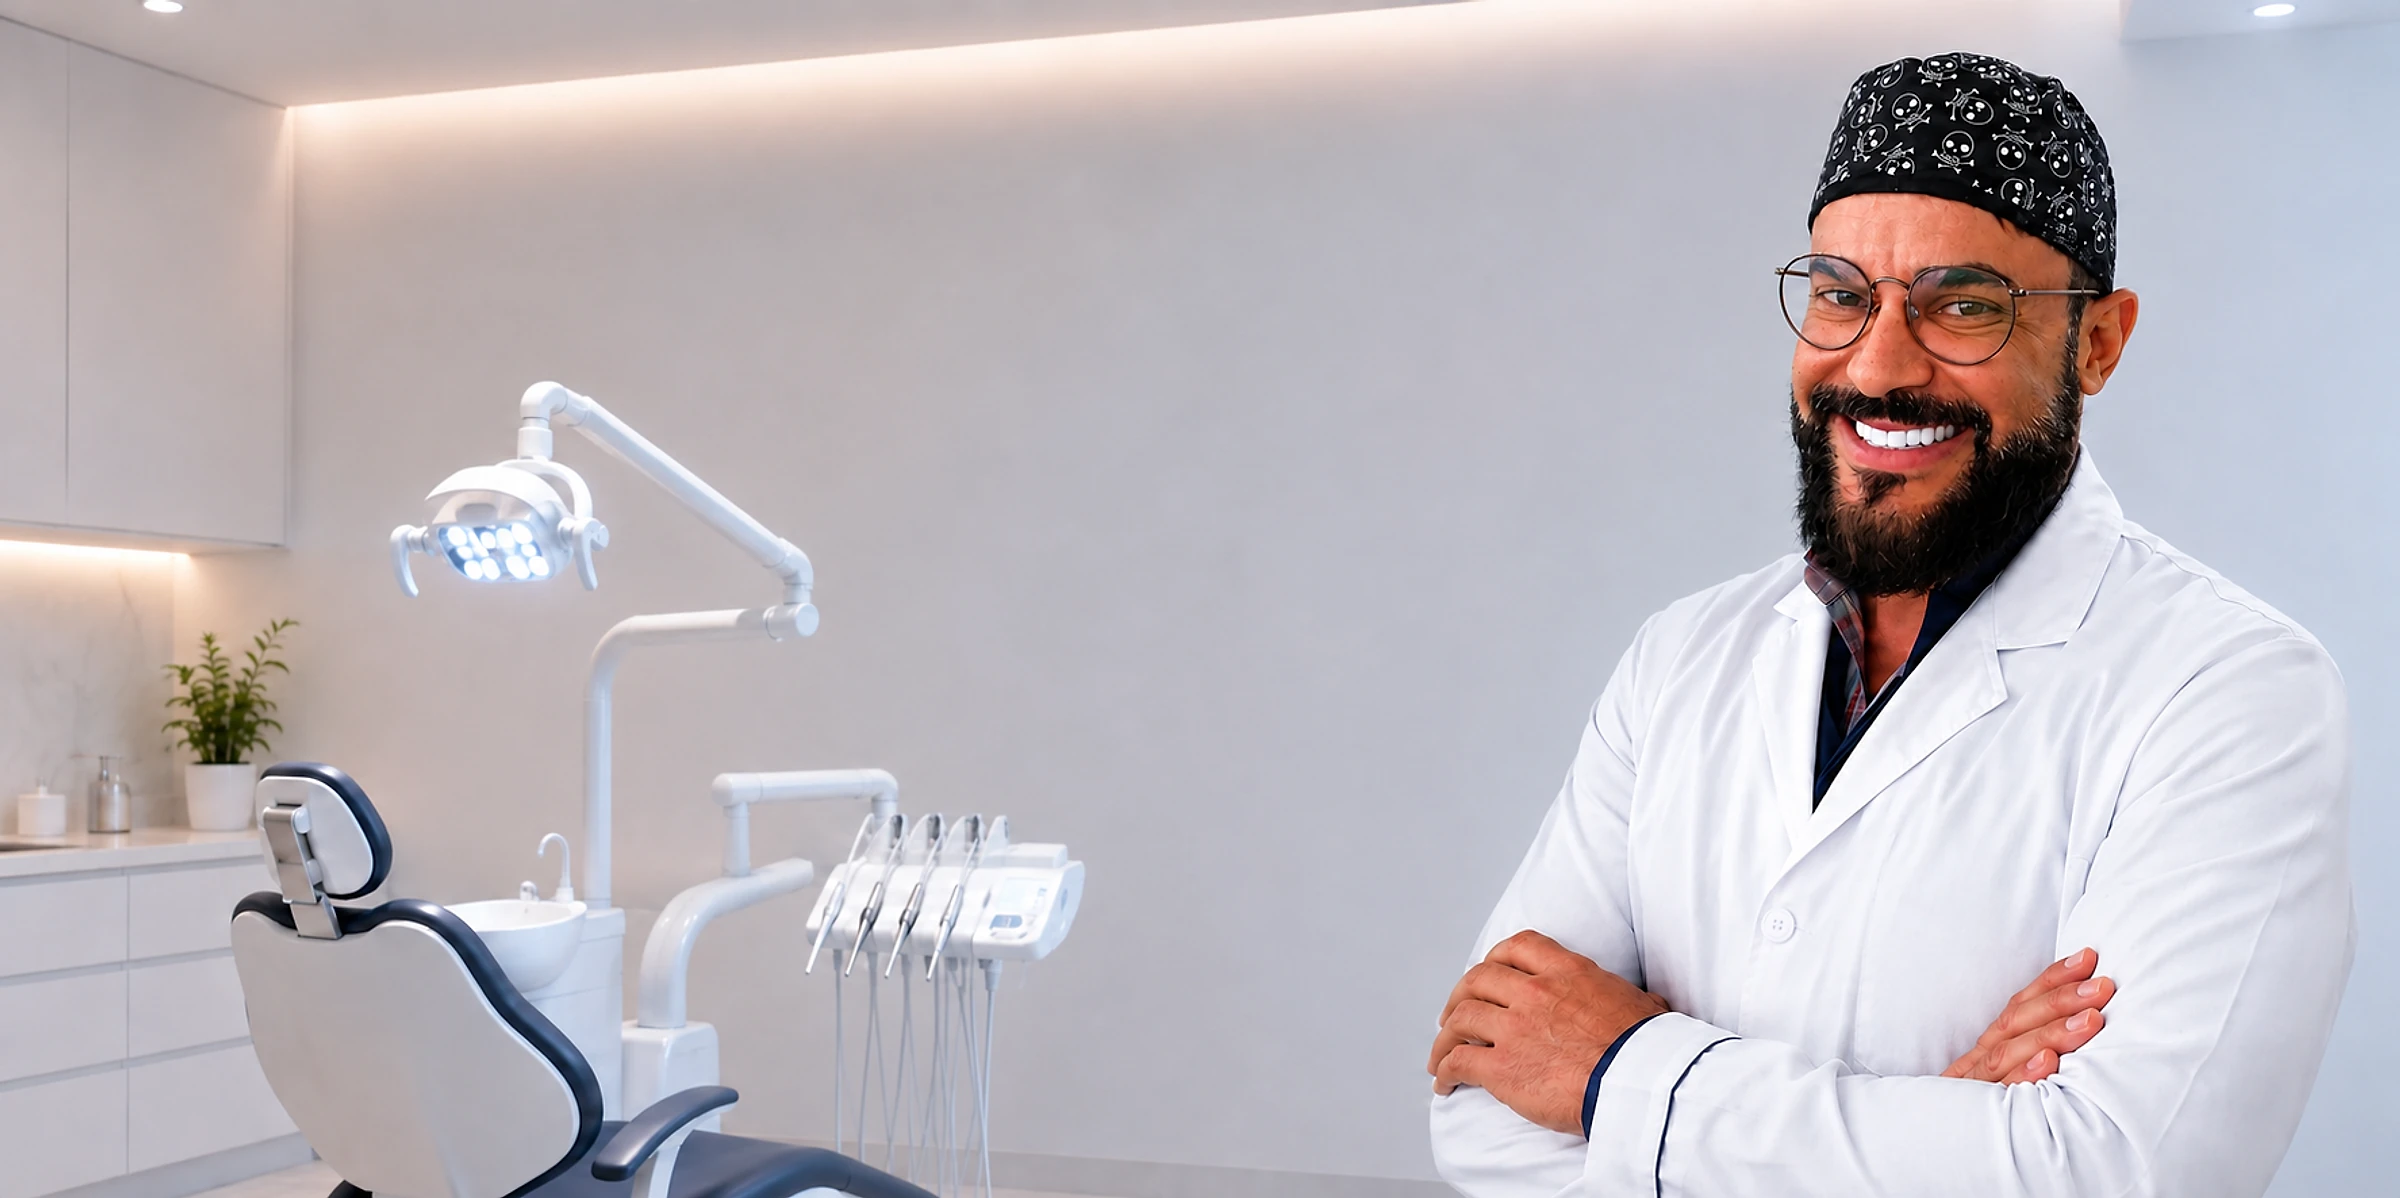
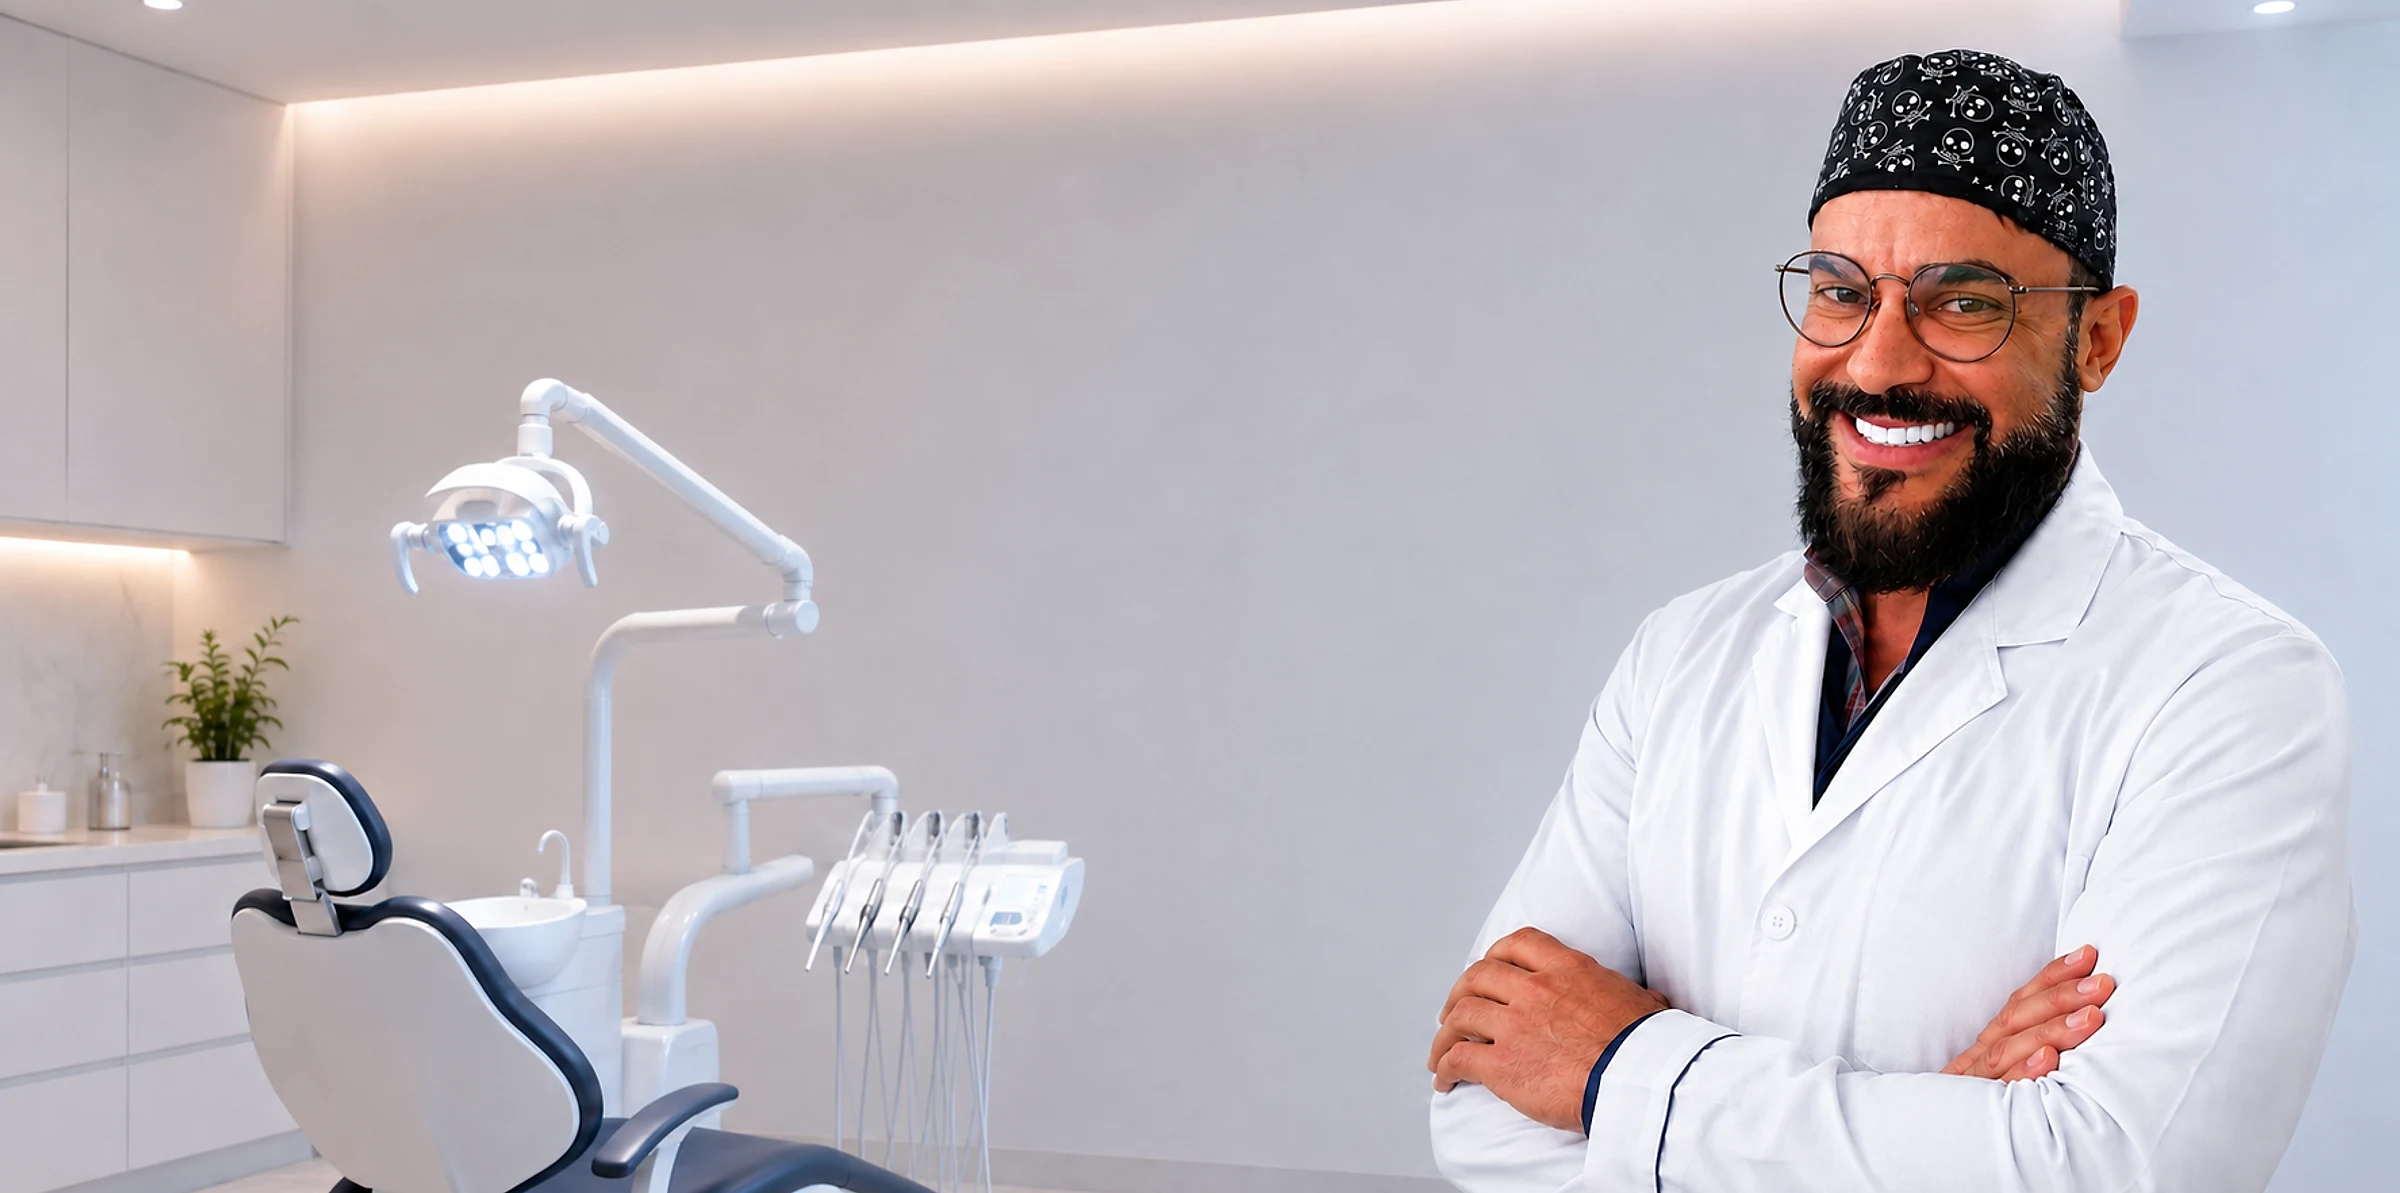
feat: show the real service photos in a numbered list
The six services now share one big picture instead of six small cards:
a numbered list on the left drives the photo and the description on the
right, with no automatic rotation.

The optimiser script learned the `servico-` prefix, so dropping a file in
`imagens-originais/` and running `npm run img` is enough from now on.

diff --git a/site/src/components/Servicos.tsx b/site/src/components/Servicos.tsx
@@ -1,0 +1,151 @@
+import { useState } from 'react'
+import { Section, SectionTitle } from './Section'
+import { dentist, whatsappUrl } from '../lib/site-config'
+import { trackConversion } from '../lib/tracking'
+
+interface Servico {
+  arquivo: string
+  titulo: string
+  texto: string
+}
+
+/**
+ * Serviços em lista numerada com foto grande ao lado. Sem troca automática:
+ * o público da página lê devagar, e conteúdo que se move sozinho atrapalha.
+ *
+ * As imagens vêm de `imagens-originais/servico-*.png` e são convertidas por
+ * `npm run img`. Regra do CFO: nada de antes e depois nem comparativo.
+ */
+const servicos: Servico[] = [
+  {
+    arquivo: 'servico-implantes',
+    titulo: 'Implantes e protocolo',
+    texto:
+      'Implante unitário, vários implantes e prótese fixa sobre eles. É o tratamento de quem já perdeu a maior parte dos dentes e não quer mais depender de dentadura.',
+  },
+  {
+    arquivo: 'servico-cirurgia',
+    titulo: 'Cirurgia bucomaxilofacial',
+    texto:
+      'Cirurgias da boca e do rosto, feitas por quem é especialista nisso, dentro do próprio consultório.',
+  },
+  {
+    arquivo: 'servico-proteses',
+    titulo: 'Próteses',
+    texto:
+      'Coroa, ponte e prótese parcial para quem perdeu um dente ou alguns, e quer resolver antes que os vizinhos se mexam.',
+  },
+  {
+    arquivo: 'servico-ortodontia',
+    titulo: 'Ortodontia',
+    texto: 'Aparelho para alinhar os dentes, de adolescente e de adulto, com acompanhamento de perto.',
+  },
+  {
+    arquivo: 'servico-clinico-geral',
+    titulo: 'Clínico geral',
+    texto: 'Limpeza, restauração, extração e o cuidado de rotina que evita problema maior lá na frente.',
+  },
+  {
+    arquivo: 'servico-atm',
+    titulo: 'Dor na mandíbula e bruxismo',
+    texto:
+      'Dor perto do ouvido, estalo ao abrir a boca, dor de cabeça ao acordar e dente gasto de ranger à noite.',
+  },
+]
+
+export function Servicos() {
+  const [ativo, setAtivo] = useState(0)
+  const servico = servicos[ativo]
+  const painelId = 'servico-painel'
+
+  return (
+    <Section id="servicos" labelledBy="servicos-titulo" origem="esquerda" className="bg-navy-800 text-cream-100">
+      <div className="container-page">
+        <p className="text-xs font-semibold tracking-[0.18em] text-sky-300 uppercase md:text-sm">
+          Se o seu caso for outro
+        </p>
+
+        <SectionTitle id="servicos-titulo" className="mt-3 max-w-3xl !text-cream-50">
+          A clínica também cuida do{' '}
+          <span className="font-display font-normal italic text-sky-200">resto da sua boca</span>
+        </SectionTitle>
+
+        <p className="mt-4 max-w-3xl text-[0.95rem] text-cream-200 md:mt-5 md:text-xl">
+          O forte do {dentist.shortName} é implante e prótese fixa, mas o atendimento não para aí.
+          Se o seu problema começa por outro tratamento, é aqui mesmo que ele se resolve.
+        </p>
+
+        <div className="mt-10 grid gap-8 lg:grid-cols-[0.8fr_1.2fr] lg:gap-14">
+          <div>
+            <p className="flex items-baseline gap-2 font-display text-2xl text-cream-50 md:text-4xl">
+              {String(ativo + 1).padStart(2, '0')}
+              <span className="text-base text-sky-300 md:text-xl">/ {String(servicos.length).padStart(2, '0')}</span>
+            </p>
+
+            <div aria-hidden="true" className="mt-3 h-1 w-full rounded-full bg-navy-line">
+              <div
+                className="h-1 rounded-full bg-sky-200 transition-[width] duration-300"
+                style={{ width: `${((ativo + 1) / servicos.length) * 100}%` }}
+              />
+            </div>
+
+            <ul className="mt-6 space-y-1">
+              {servicos.map((item, index) => {
+                const selecionado = index === ativo
+
+                return (
+                  <li key={item.arquivo}>
+                    <button
+                      type="button"
+                      onClick={() => setAtivo(index)}
+                      aria-controls={painelId}
+                      aria-current={selecionado}
+                      className={`min-h-[3rem] w-full rounded-full px-4 text-left text-[0.95rem] font-medium transition-colors md:text-lg ${
+                        selecionado
+                          ? 'border-2 border-sky-200 bg-navy-900 text-cream-50'
+                          : 'border-2 border-transparent text-cream-200 hover:bg-navy-900'
+                      }`}
+                    >
+                      {item.titulo}
+                    </button>
+                  </li>
+                )
+              })}
+            </ul>
+          </div>
+
+          <div id={painelId} aria-live="polite" className="overflow-hidden rounded-card border border-navy-line bg-navy-900">
+            <img
+              key={servico.arquivo}
+              src={`/${servico.arquivo}.webp`}
+              width={1050}
+              height={1400}
+              alt={servico.titulo}
+              loading="lazy"
+              decoding="async"
+              className="aspect-4/3 w-full object-cover md:aspect-16/10"
+            />
+            <div className="p-4 md:p-8">
+              <h3 className="text-lg font-semibold text-cream-50 md:text-2xl">{servico.titulo}</h3>
+              <p className="mt-2 text-[0.9rem] leading-relaxed text-cream-200 md:text-lg">{servico.texto}</p>
+            </div>
+          </div>
+        </div>
+
+        <p className="mt-8 text-[0.85rem] text-cream-200 md:text-base">
+          Não achou o seu?{' '}
+          <a
+            href={whatsappUrl}
+            target="_blank"
+            rel="noopener noreferrer"
+            onClick={() => trackConversion('whatsapp_click')}
+            className="font-semibold text-white underline underline-offset-4"
+          >
+            Pergunte no WhatsApp
+          </a>{' '}
+          antes de marcar qualquer coisa.
+        </p>
+      </div>
+    </Section>
+  )
+}
